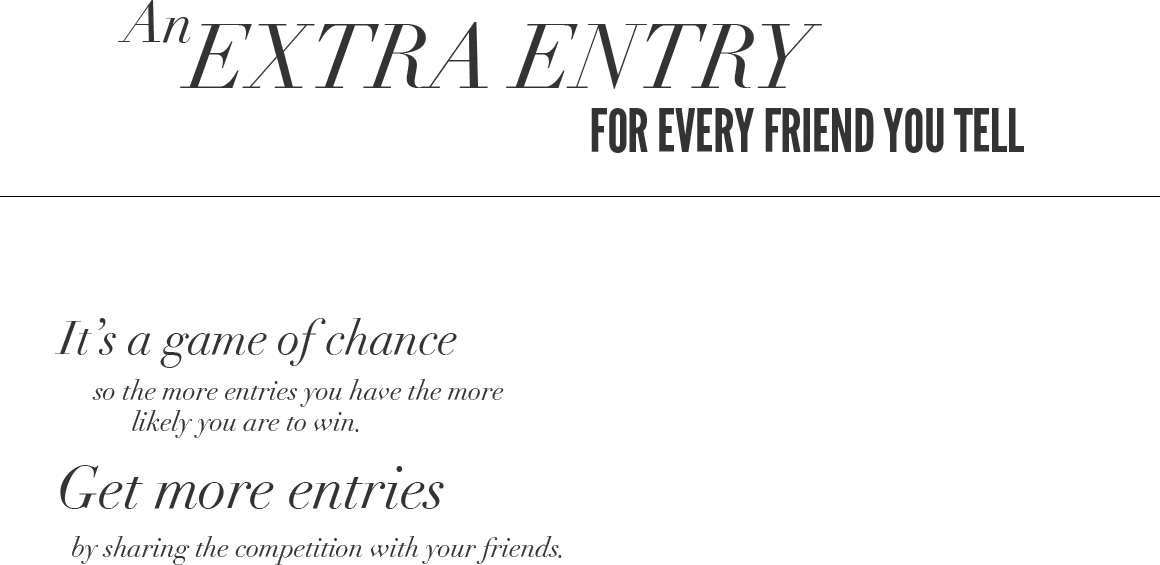
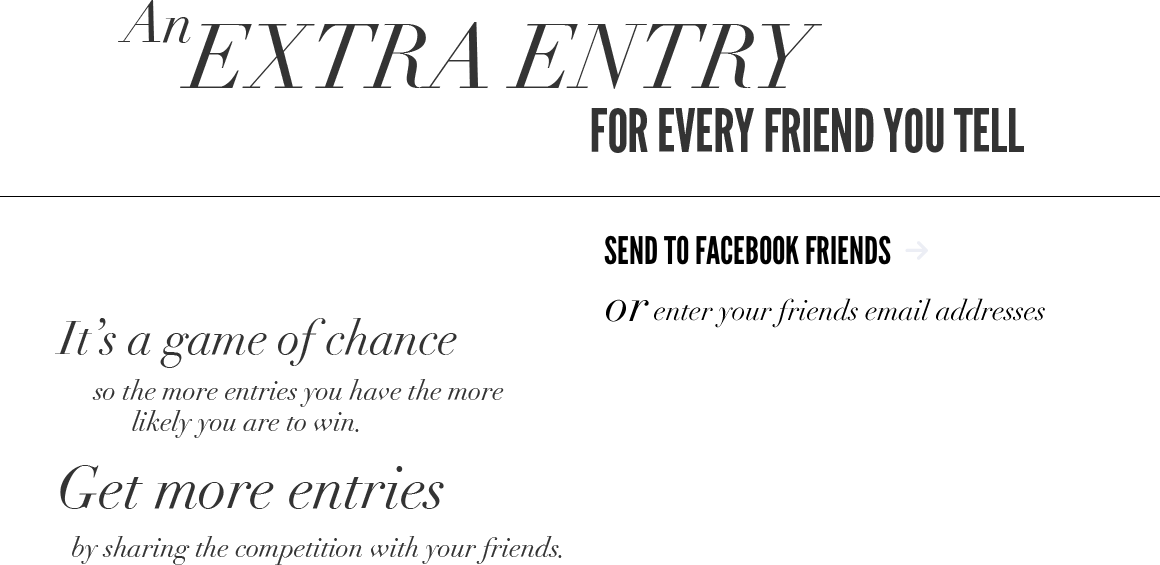
added facebook competition button

Changed region(s): [[0.4966, 0.4212, 0.7759, 0.4814], [0.5276, 0.5115, 0.9, 0.5717]]

diff --git a/app/assets/stylesheets/partials/_landing.css.scss b/app/assets/stylesheets/partials/_landing.css.scss
@@ -98,11 +98,17 @@
   }
 }
 .competitions.share {
+  .facebook-send {
+    position: absolute;
+    right: 186px;
+    top: 268px;
+  }
   .content-wrapper {
+    position: relative;
     background: image-url('image-landing-2.png') center 28px no-repeat #fff;
   }
   .signup-form {
-    padding: 268px 80px 0 0;
+    padding: 368px 80px 0 0;
     float: right;
   }
   .form-fields, .submit {
